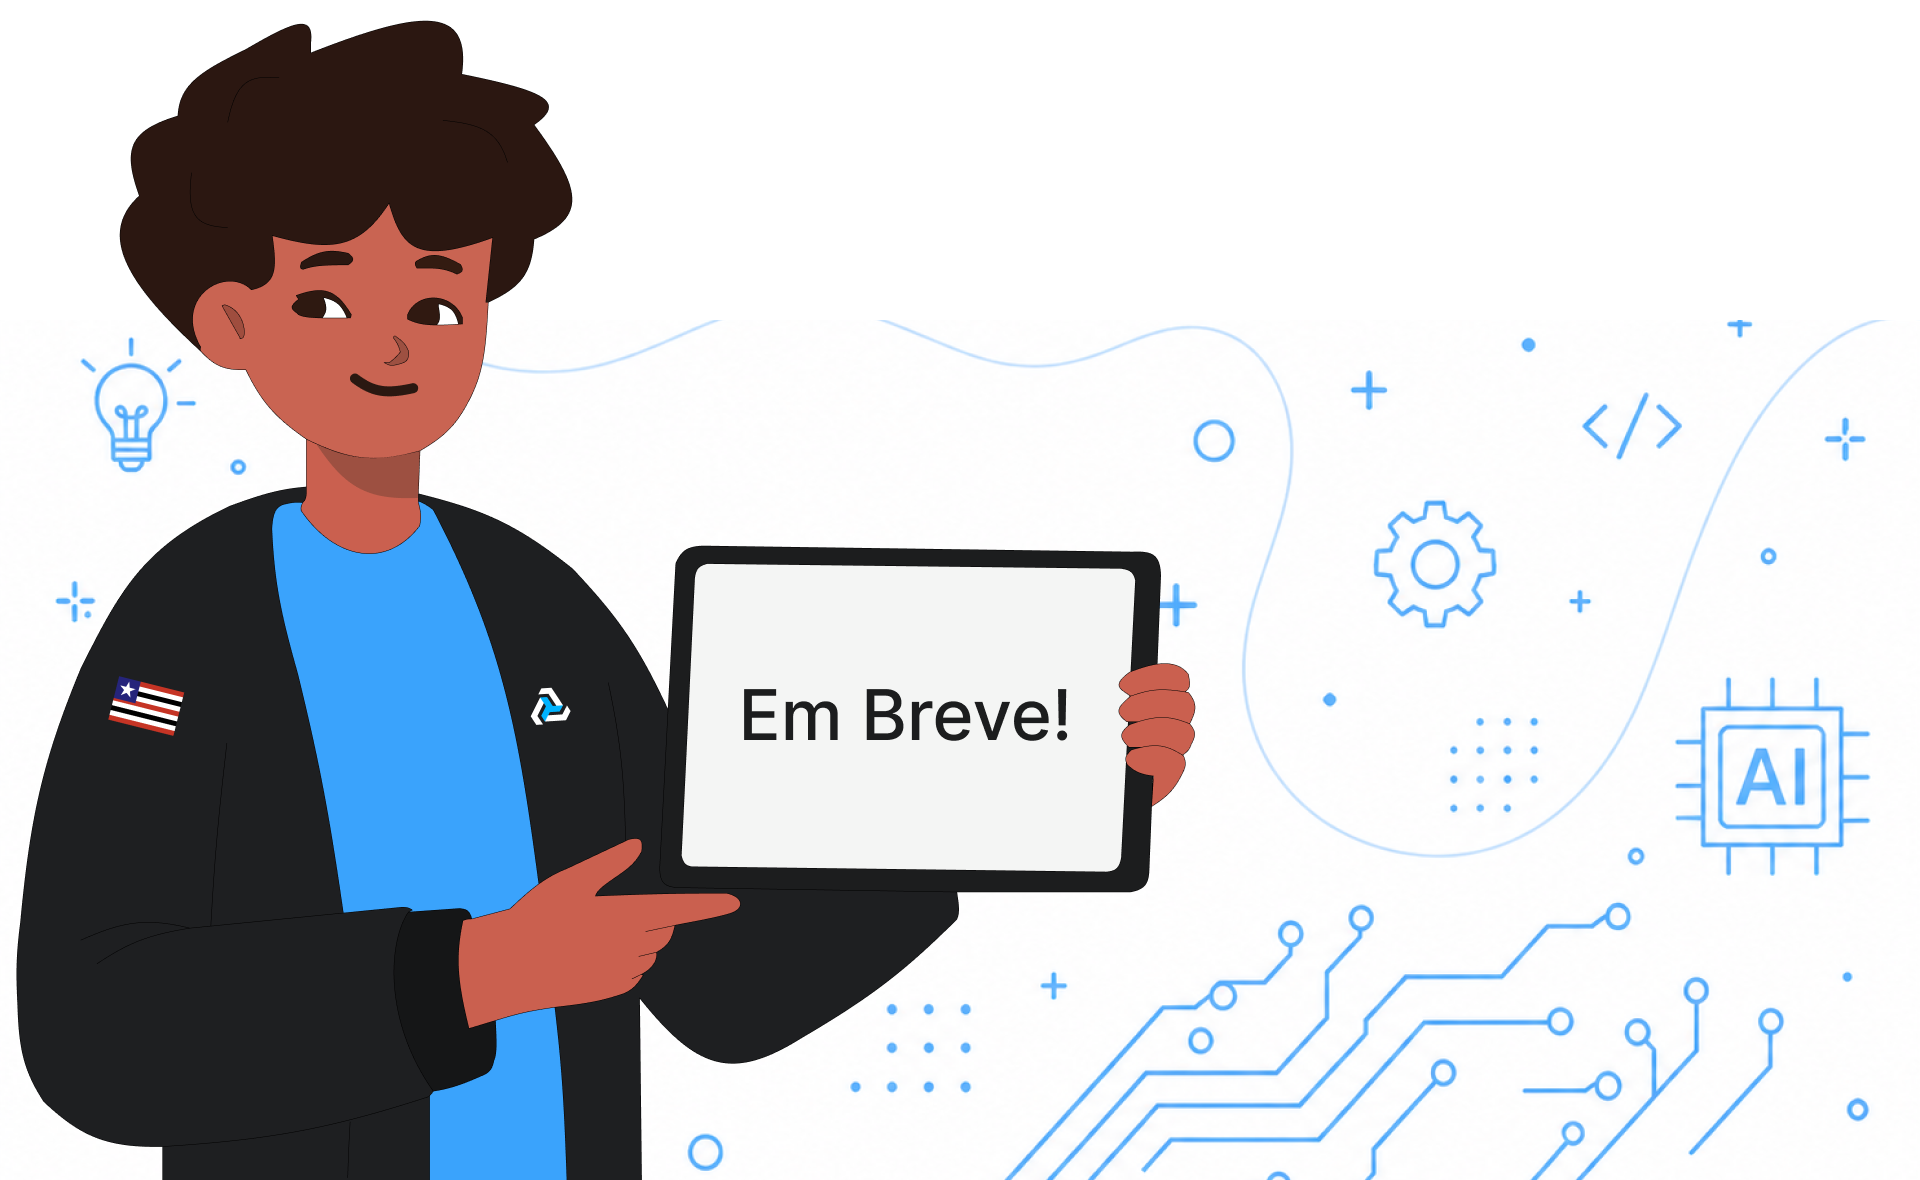
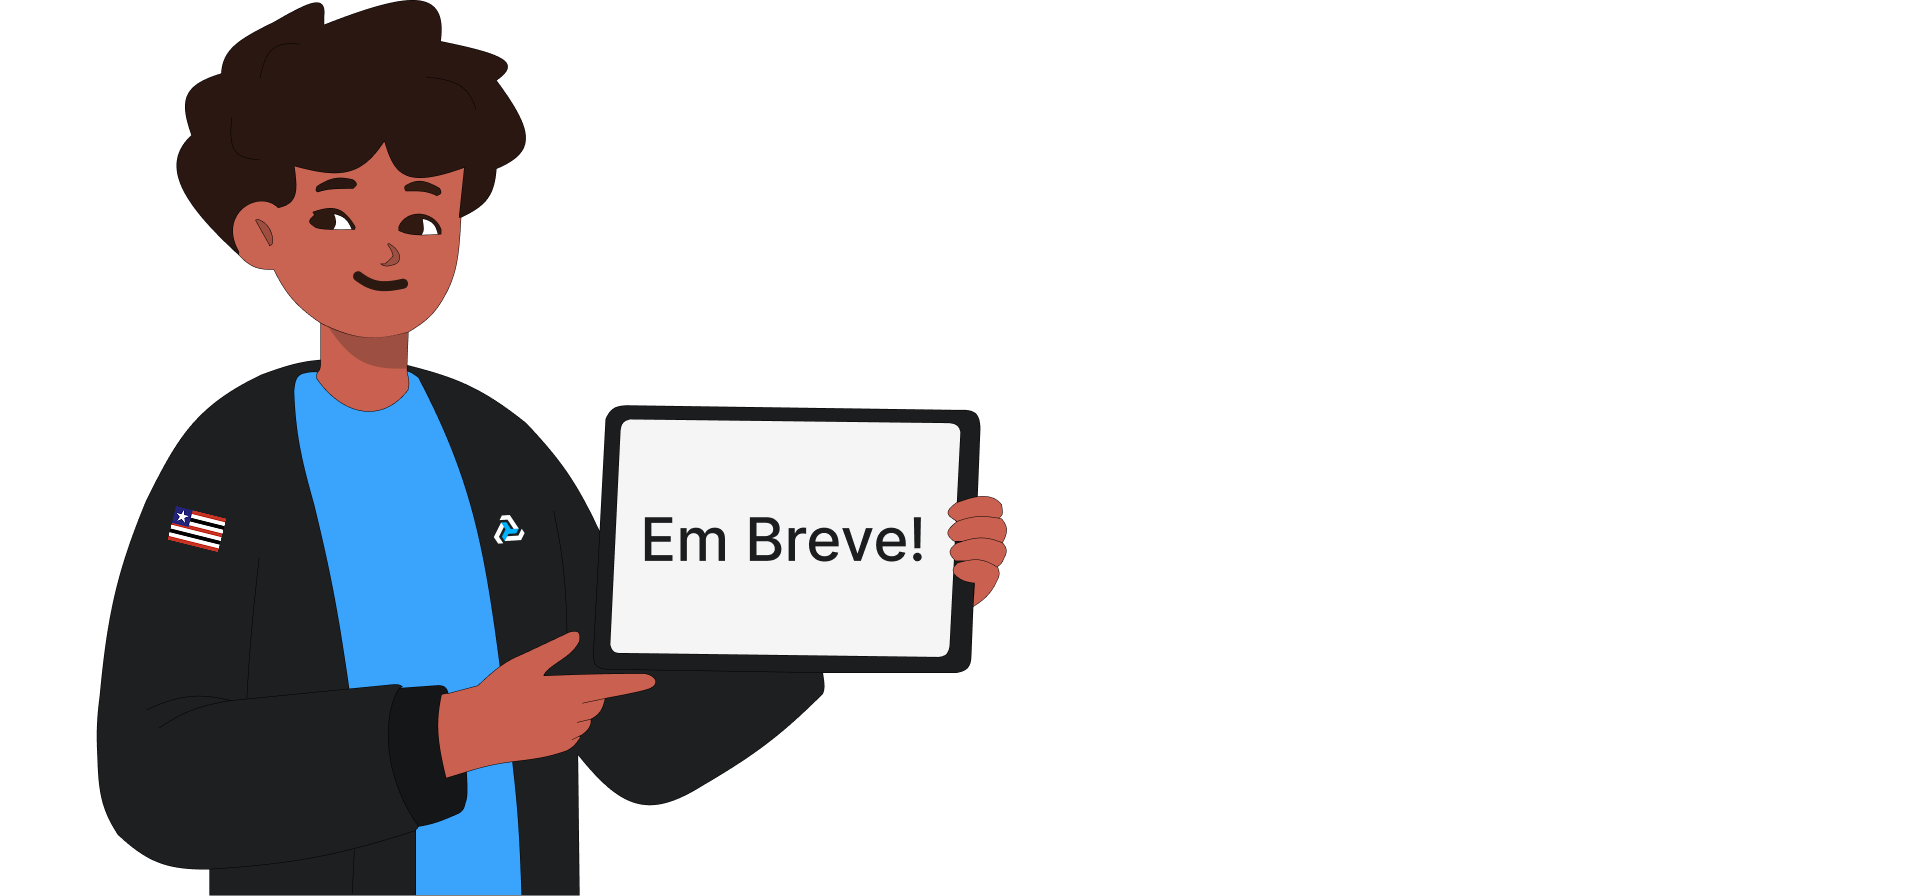
Adicionando botoes em registros

diff --git a/css/Novo_CSS/registros.css b/css/Novo_CSS/registros.css
@@ -9,7 +9,7 @@ piao de css e nao consegue decorar as coisas
 }
 
 .hero-registros {
-    background-color: #0d8fe3;
+    background-color: #027BDF;
     min-height: 320px;
     display: flex;
     align-items: center; /* centraliza verticalmente */
@@ -25,12 +25,13 @@ piao de css e nao consegue decorar as coisas
 }
 
 .hero-registros-content h1 {
+    font-family: "Karantina", sans-serif;
     color: white;
-    font-size: 65px; /* tamanho */
-    font-weight: 800; /* grossura */
+    font-size: 90px; /* tamanho */
+    font-weight: 900; /* grossura */
     margin-bottom: 18px; /* espaçamento inferior */
     text-align: left;
-    width: 900px; /* tamanho horizontal da caixa */
+    width: 925px; /* tamanho horizontal da caixa */
 }
 
 /*
@@ -42,15 +43,16 @@ variações de margin-
 */
 
 .hero-registros-content h1 span {
-    color: #061b66;
+    color: #001249;
 }
 
 .hero-registros-content p {
+    font-family: "Montserrat", sans-serif;
     color: white;
-    font-size: 25px;
+    font-size: 27px;
     font-weight: 700;
     line-height: 1.2; /* espaçamento */
-    width: 900px;
+    width: 925px;
 }
 
 .registros-banner {
@@ -62,7 +64,51 @@ variações de margin-
 
 .banner-registros-img {
     width: 100%;
-    margin-top: -320px;
+    margin-top: -380px; /* -275 antes */
     margin-bottom: -70px;
     display: block;
+}
+
+.dias-container{
+    display: flex;
+    /* justify-content: center; centralizado horizontalmente */
+    margin-left: 595px;
+    gap: 20px; /* distancia entre elementos do container */
+    margin-top: 60px; /* distancia pro elemento do topo (caixa azul clara) */
+
+    position: relative;
+    z-index: 10;
+}
+
+.btn-dia{
+    background-color: #001d6e;
+    color: white;
+    border: 3px solid #0d8fe3; /* borda ciano no botao azul escuro */
+    border-radius: 30px; /* arredonda a borda */
+
+    width: 112px; /* largura */
+    height: 36px; /* altura */
+
+    font-family: "Montserrat", sans-serif;
+    font-size: 18px;
+    font-weight: 700;
+
+    /* animacao de cursor */
+    cursor: pointer;
+    transition: 0.2s;
+
+    box-shadow: 4px 4px 0 rgba(0,0,0,0.2); /* sombra */
+}
+
+.btn-dia:hover{
+    transform: translateY(-2px);
+    /* botao sobe 2px quando o cursor esta em cima */
+}
+
+.btn-dia.ativo{
+    background-color: #0d8fe3;
+    color: white;
+    border: 3px solid #001d6e; /* borda ciano no botao azul escuro */
+    /* background-color: #00ff44; */
+    /* botao ativo mais escuro */
 }

diff --git a/js/registrosBotoes.js b/js/registrosBotoes.js
@@ -1,0 +1,13 @@
+const botoes = document.querySelectorAll('.btn-dia');
+
+botoes.forEach(botao => {
+    botao.addEventListener('click', () => {
+
+        botoes.forEach(b => {
+            b.classList.remove('ativo');
+        });
+
+        botao.classList.add('ativo');
+
+    });
+});

diff --git a/registros.php b/registros.php
@@ -5,11 +5,11 @@
 ?>
 
 <link rel="stylesheet" href="css/Novo_CSS/registros.css">
-<link href="https://fonts.googleapis.com/css2?family=Montserrat:wght@400;500;600;700;800&display=swap" rel="stylesheet">
+<link href="https://fonts.googleapis.com/css2?family=Karantina:wght@300;400;700&family=Montserrat:wght@400;500;600;700;800&display=swap" rel="stylesheet">
 
 <section class="hero-registros">
     <div class="hero-registros-content">
-        <h1>Registros Acalourada <span>2026.2</span></h1>
+        <h1>Registros Acalourada <span>2026.1</span></h1>
         <p>
             Os melhores cliques dos três dias do evento vivido
             pelos calouros do curso de Ciência da Computação
@@ -18,9 +18,17 @@
     </div>
 </section>
 
+<div class="dias-container">
+    <button class="btn-dia ativo">Dia 1</button>
+    <button class="btn-dia">Dia 2</button>
+    <button class="btn-dia">Dia 3</button>
+</div>
+
+<script src="js/registrosBotoes.js"></script>
+
 <section class="registros-banner">
     <img 
-        src="img\BannerRegistros.png" 
+        src="img/BannerRegistros.png" 
         alt="Banner registros"
         class="banner-registros-img"
     >